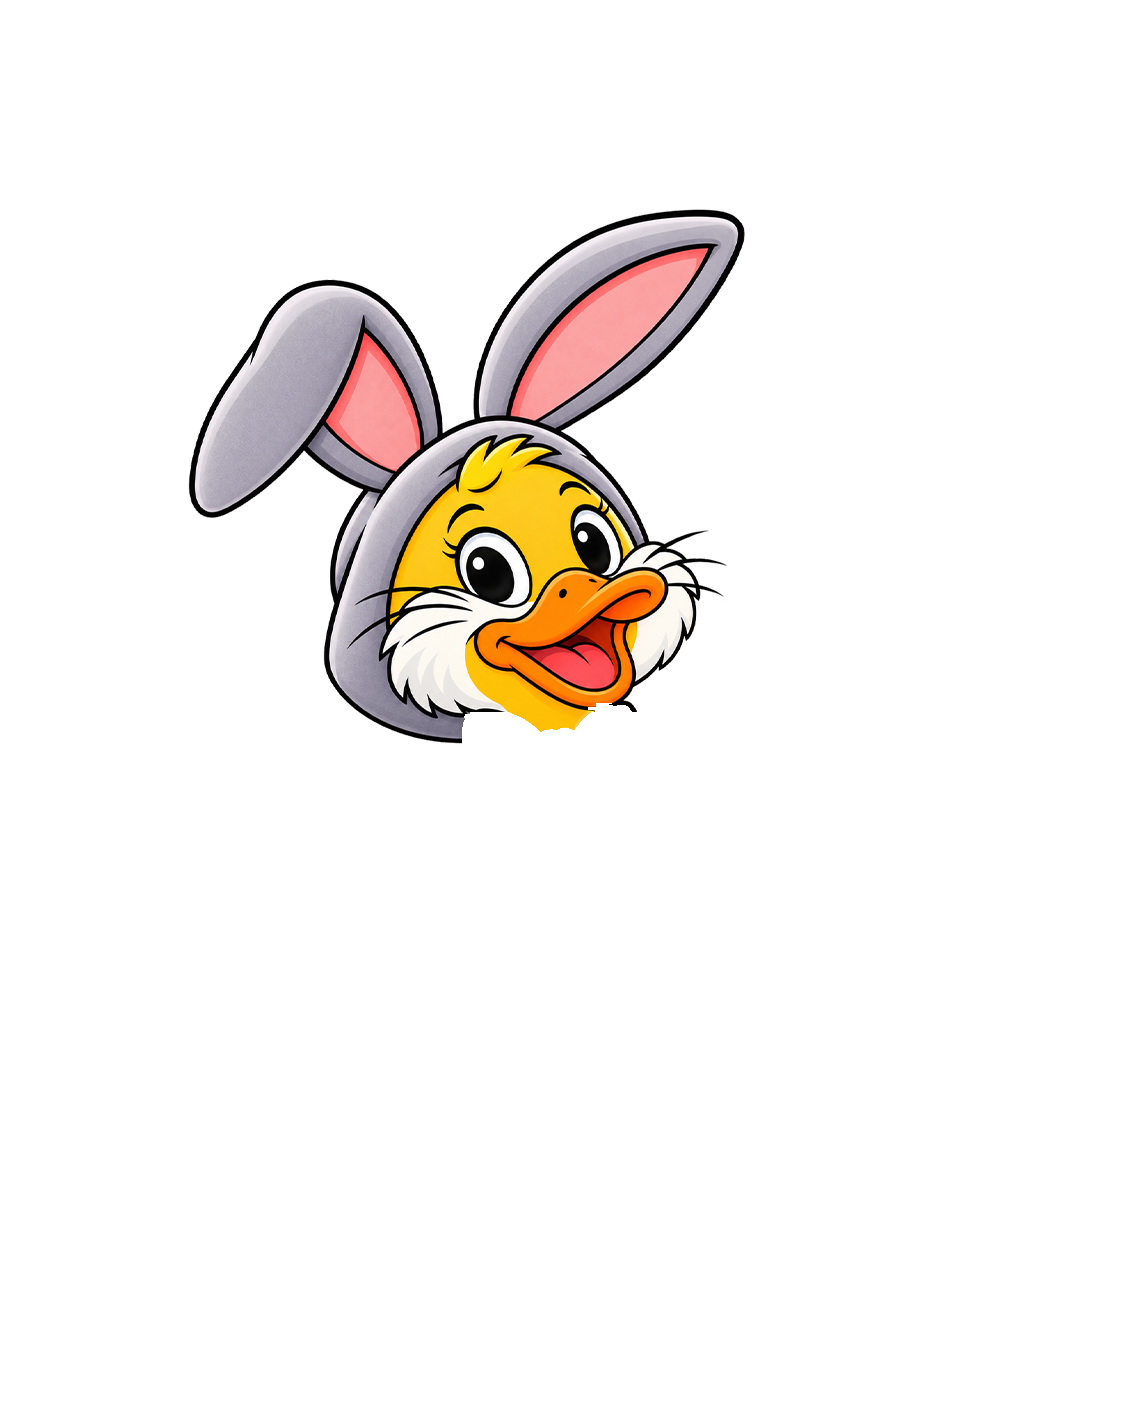
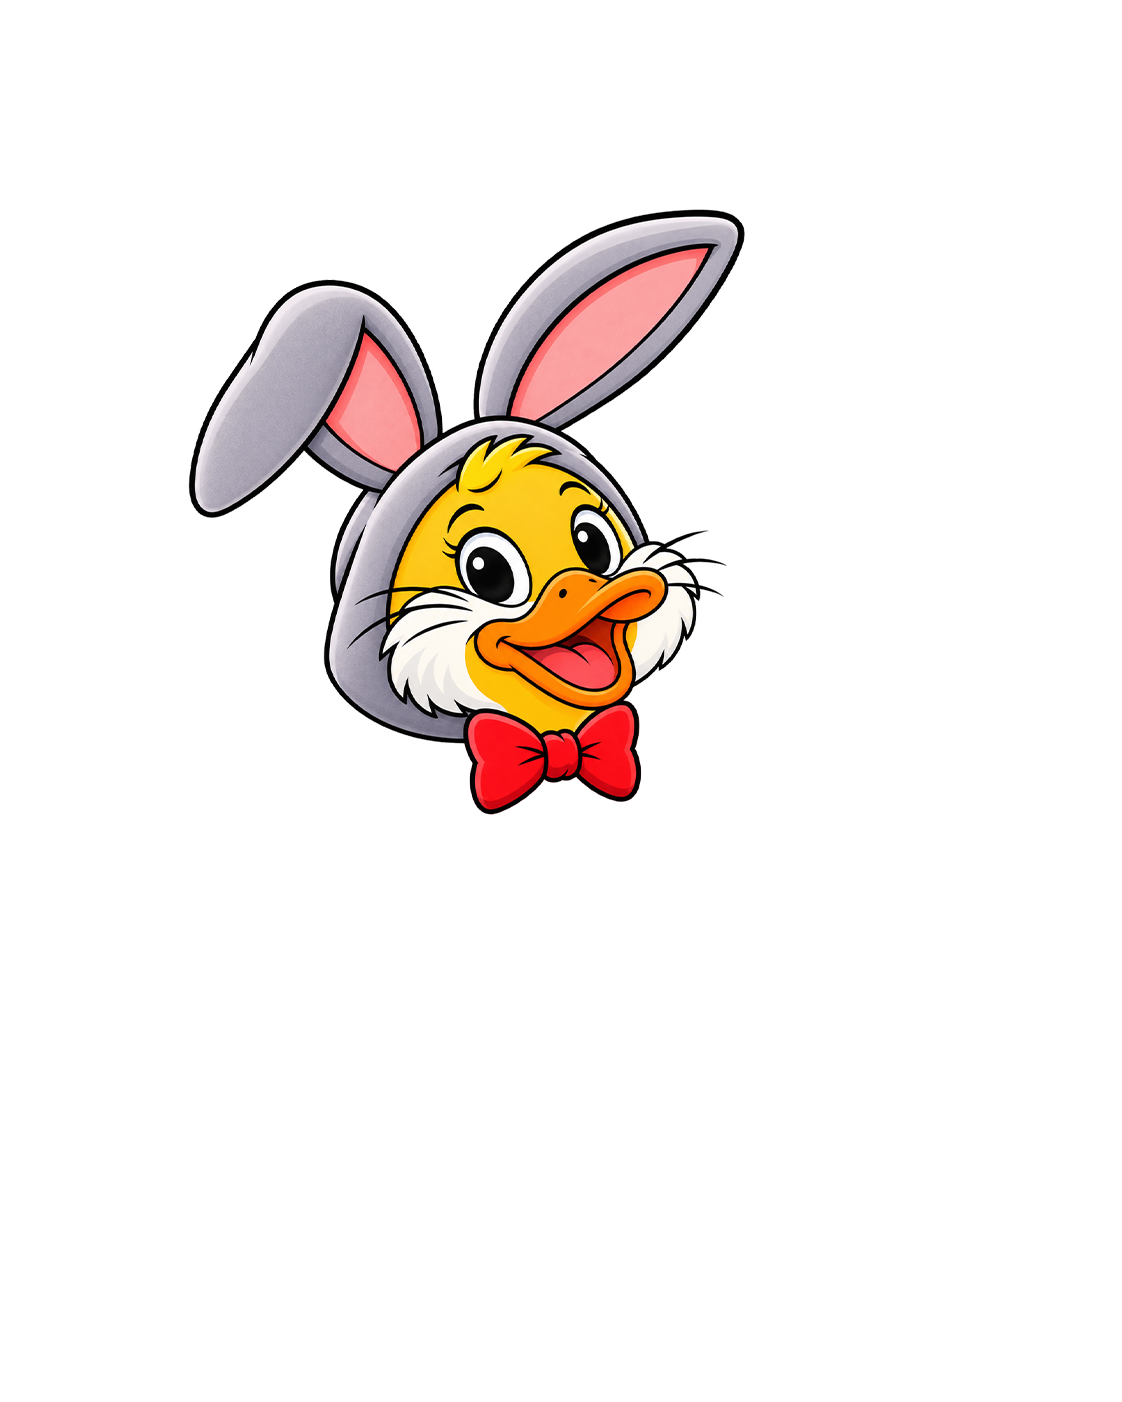
Hold the head still (no nod); restore original head layer

Changed region(s): [[0.4055, 0.4907, 0.5927, 0.5827]]

diff --git a/css/style.css b/css/style.css
@@ -33,8 +33,7 @@ html, body { margin: 0; height: 100%; background: #000; overflow: hidden;
 @keyframes bunny-in { to { opacity: 1; transform: none; } }
 
 .headgrp { transform-origin: 43% 61%; }
-#finale.f-bunny .headgrp { animation: sway 2.4s ease-in-out 0.6s infinite alternate; }
-@keyframes sway { from { transform: rotate(-1.4deg); } to { transform: rotate(1.4deg) translateY(0.4%); } }
+/* head is held still for now; to re-enable the nod: #finale.f-bunny .headgrp { animation: sway ... } */
 
 #fstage .wink { opacity: 0; }
 #finale.f-wink .wink { opacity: 1; }
@@ -76,7 +75,7 @@ html, body { margin: 0; height: 100%; background: #000; overflow: hidden;
 @media (prefers-reduced-motion: reduce) {
   .mosaic .cell { transition: none; transform: none; }
   #finale.show .circles, #finale.f-bunny .bunnygrp { animation: none; opacity: 1; transform: none; }
-  #finale.f-bunny .headgrp, #finale.f-wink .duck { animation: none; }
+  #finale.f-wink .duck { animation: none; }
   #finale.f-text .lettering, #finale.f-line .line { animation: none; clip-path: none; }
   .mosaic.half-l, .mosaic.half-r { transition: none; }
 }
